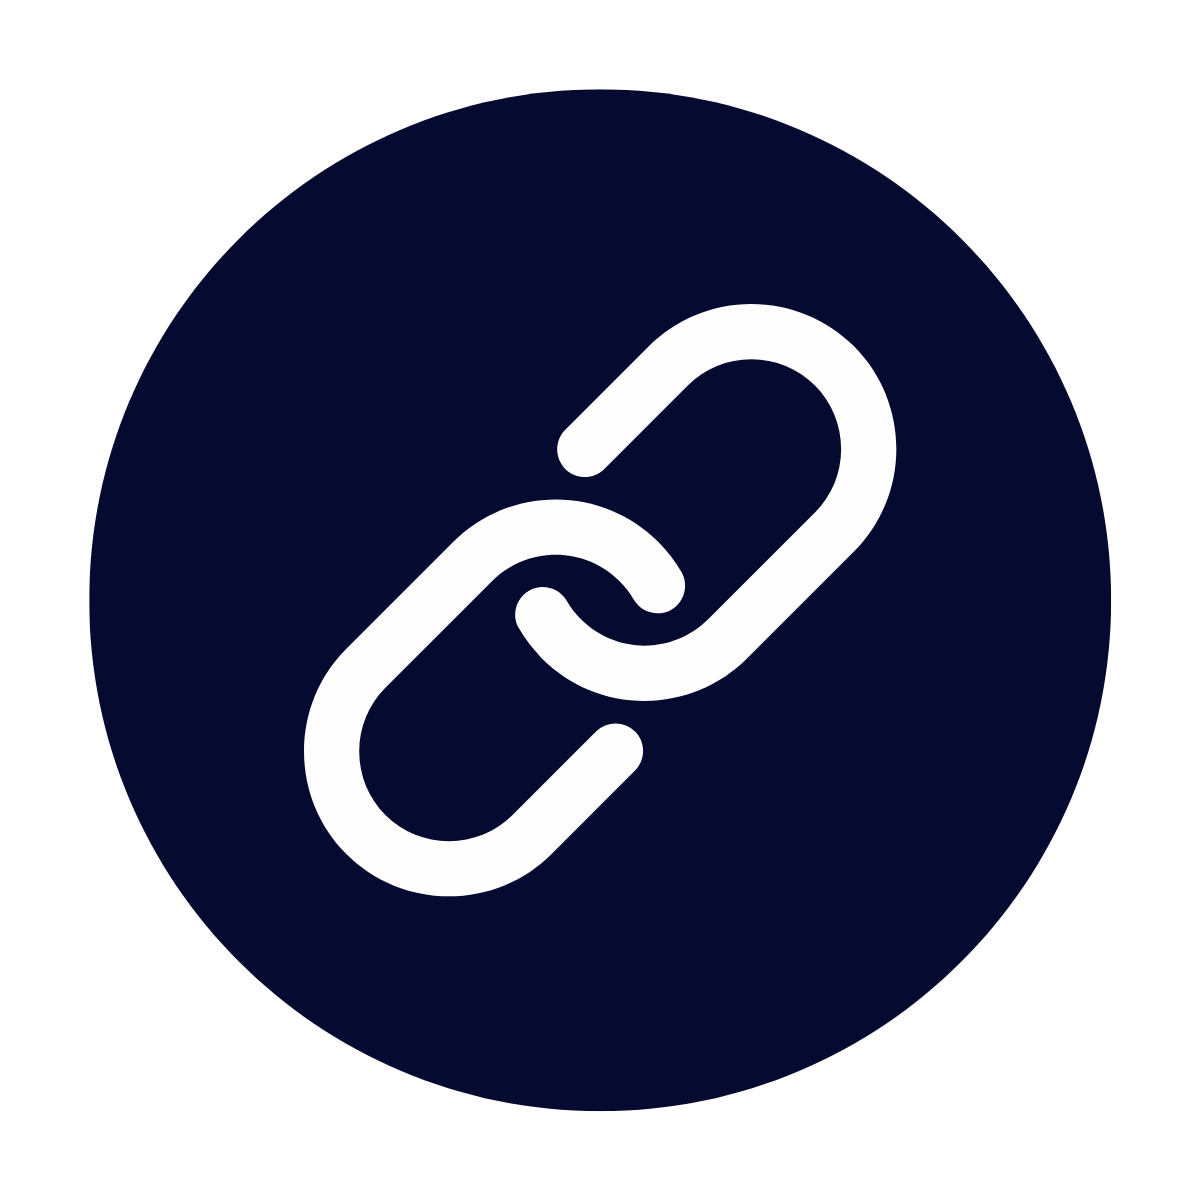
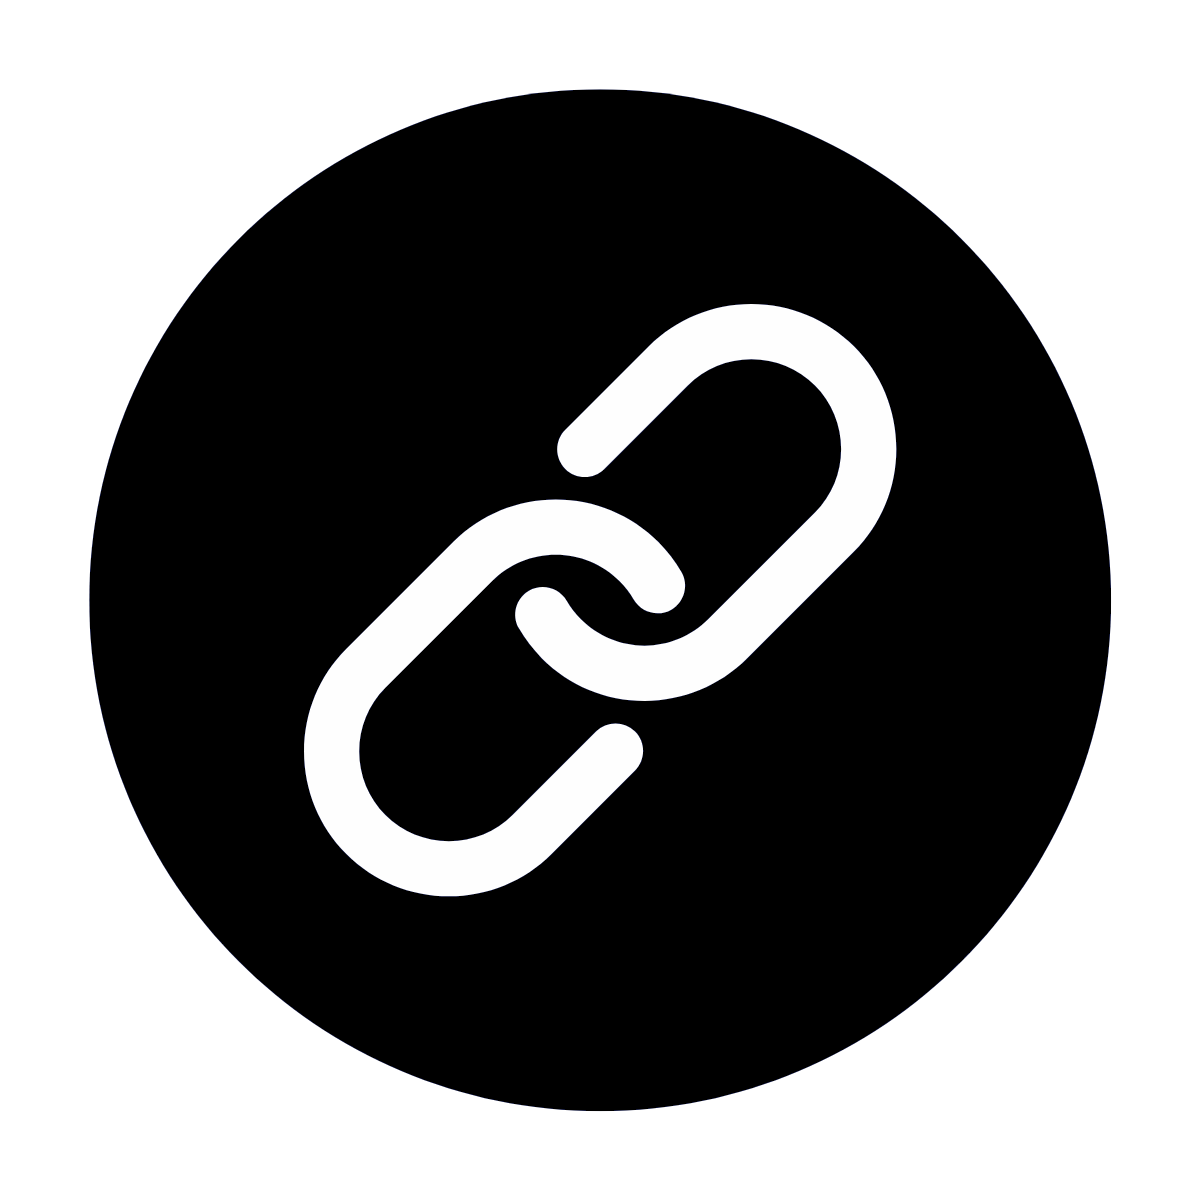
Update home description

diff --git a/index.html b/index.html
@@ -28,16 +28,13 @@
         <section class="section">
             <h1><span>About Me</span></h1>
             <strong>👩💻 A Journey Towards Front-End Development</strong>
-            <p>
-                I am a Computer Science graduate from the University of Maryland:
-                College Park, with an interest in web development. I am currently
-                expanding my skills in front-end development using React. In addition to
-                programming, I have hobbies such as playing the violin, exploring games
-                like Stardew Valley, and playing around in Colors Live on my Switch,
-                which inspire my design sense and attention to detail. I enjoy building
-                web applications because the process is fun and you can make cool
-                things. I’m always learning and hope to create projects that are helpful
-                and enjoyable for others.
+            <p>I am a Computer Science graduate from the University of Maryland: College Park, 
+                currently learning Front-End Development using React. My interest lies in leveraging technologies 
+                 to build compelling and fulfilling applications. Outside of coding,
+                 my hobbies, such as playing the music and creating digital art, have refined my attention 
+                 to detail and creative problem-solving skills, which I apply directly to my work. 
+                 I am committed to continuous learning and building projects that are both functional 
+                 and visually appealing
             </p>
             <pre><code class="code-snippet">
 while (self.trying) {
@@ -163,36 +160,8 @@ while (self.trying) {
                 <dd>· Coursework: Linear Algebra, Computer Architecture, Android Development, Algorithm Design, Computer Vision, Computer Graphics, Advanced Data Structures, React Development</dd>
             </dl>
         </section>
-        <section class="section">
-            <h1><span>Volunteering</span></h1>
-            <dl>
-                <dt>
-                    <div style="display: flex; justify-content: space-between">
-                        <strong>3rd Grade Sunday School Teacher</strong>
-                        <strong>Jan 2022 - Present</strong>
-                    </div>
-                    <div style="display: flex; justify-content: space-between">
-                        <i>Our Lady of Vietnam Parish</i>
-                        <i>Silver Spring, Maryland</i>
-                    </div>
-                </dt>
-                <dd>· Lead weekly religious instruction for 3rd-grade Vietnamese students using the Faith and Life series curriculum to deepen their understanding of Catholic teachings and traditions.</dd>
-                <dd>· Prepare students for the Faith Knowledge Assessment by reinforcing key concepts, prayers, and scripture through engaging lessons.</dd>
 
-                <dt>
-                    <div style="display: flex; justify-content: space-between">
-                        <strong>Church Violinist</strong>
-                        <strong>Jul 2015 – Present</strong>
-                    </div>
-                    <div style="display: flex; justify-content: space-between">
-                        <i>Our Lady of Vietnam Parish</i>
-                        <i>Silver Spring, Maryland</i>
-                    </div>
-                </dt>
-                <dd>· Provided musical accompaniment with the choir and other instrumentalists for Vietnamese Catholic hymns.</dd>
-                <dd>· Provided music support and tutoring instruction to children by helping them learn violin and church performances.</dd>
-            </dl>
-        </section>
+      
         <section class="section">
             <h1><span>Technologies</span></h1>
             <div class="two-column-container">

diff --git a/style.css b/style.css
@@ -256,9 +256,10 @@ p {
 .project-box {
   border: 3px solid #f8c75d;
   border-radius: 10px;
-  padding: 15px;
-  margin-bottom: 20px;
-  background-color: #fff;
+  padding: 10px;
+  margin: 20px auto; /* 20px for top and bottom, 'auto' for left and right */
+  margin-left: 77px;  /* Adds a margin of 10 pixels on the left */
+  margin-right: 77px; /* Adds a margin of 10 pixels on the right */
 }
 
 /* Experience / Education List Styles */
@@ -283,11 +284,13 @@ dt span {
 	font-weight: normal; /* Adjust if needed */
 }
 
-/* Add this to your CSS file or a <style> block */
-dt div {
-  position: relative;
-  z-index: 2;
+.section {
+		padding: 20px;
+		margin-left: 150px;
+		margin-right: 150px;
 }
+
+
 
 /* Programming/Dev/Creative Tools List Styles */
 /* (Uses general dl/dd styles above) */
@@ -372,15 +375,20 @@ audio { /* Grouped selector */
 		font-size: 0.9em;
 		margin-top: 3px;
 		}
+
+		.project-box {
+  border: 3px solid #f8c75d;
+  border-radius: 10px;
+  padding: 10px;
+  margin: 20px auto; /* 20px for top and bottom, 'auto' for left and right */
+
+}
+
 }
 
 /* Styles for Tablets/Desktops */
 @media screen and (min-width: 1140px) { /* Simplified breakpoint */
-	.section {
-		padding: 20px;
-		margin-left: 150px;
-		margin-right: 150px;
-	}
+
 
 }
 
